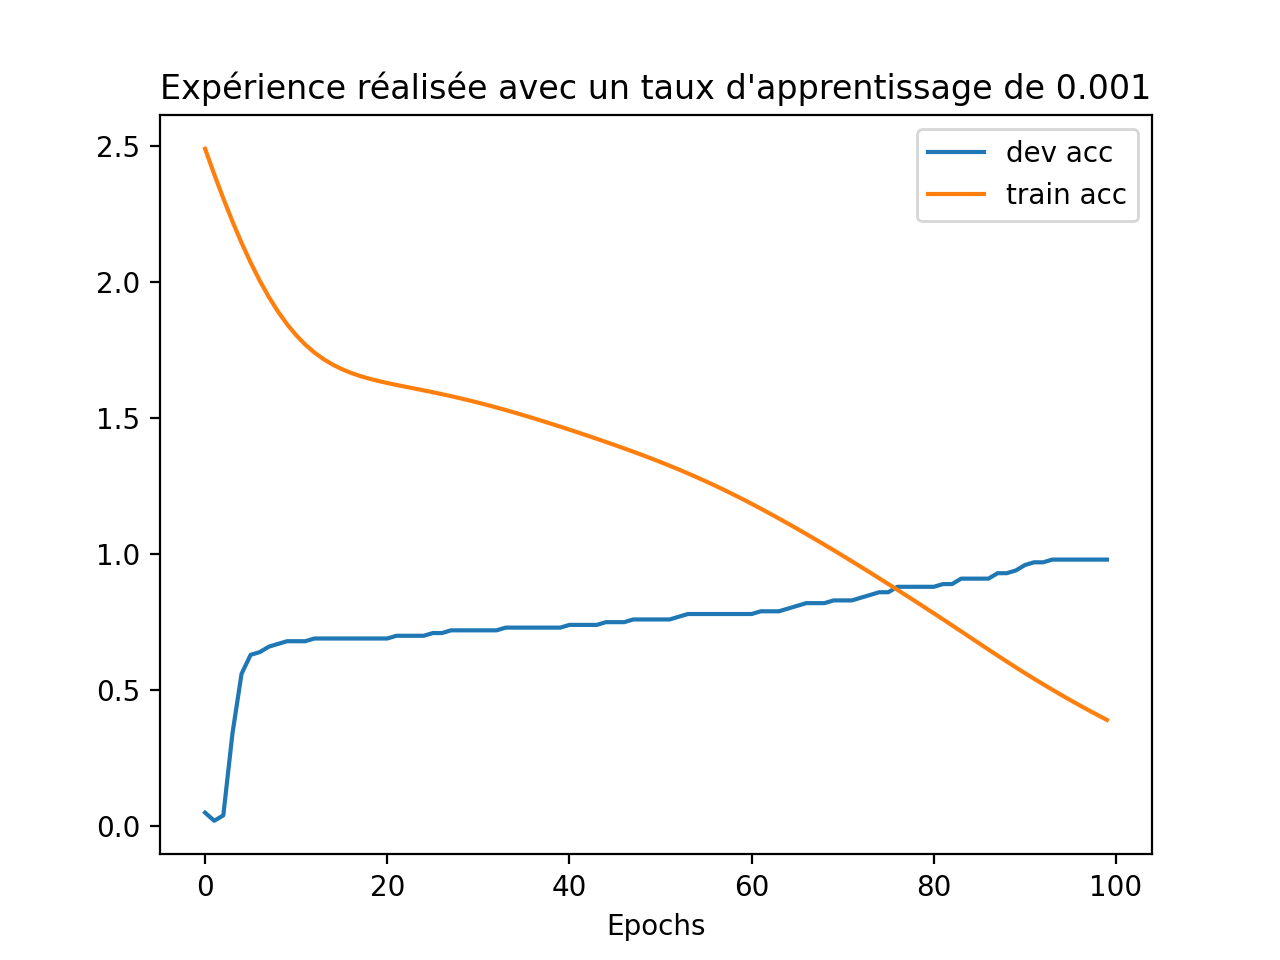
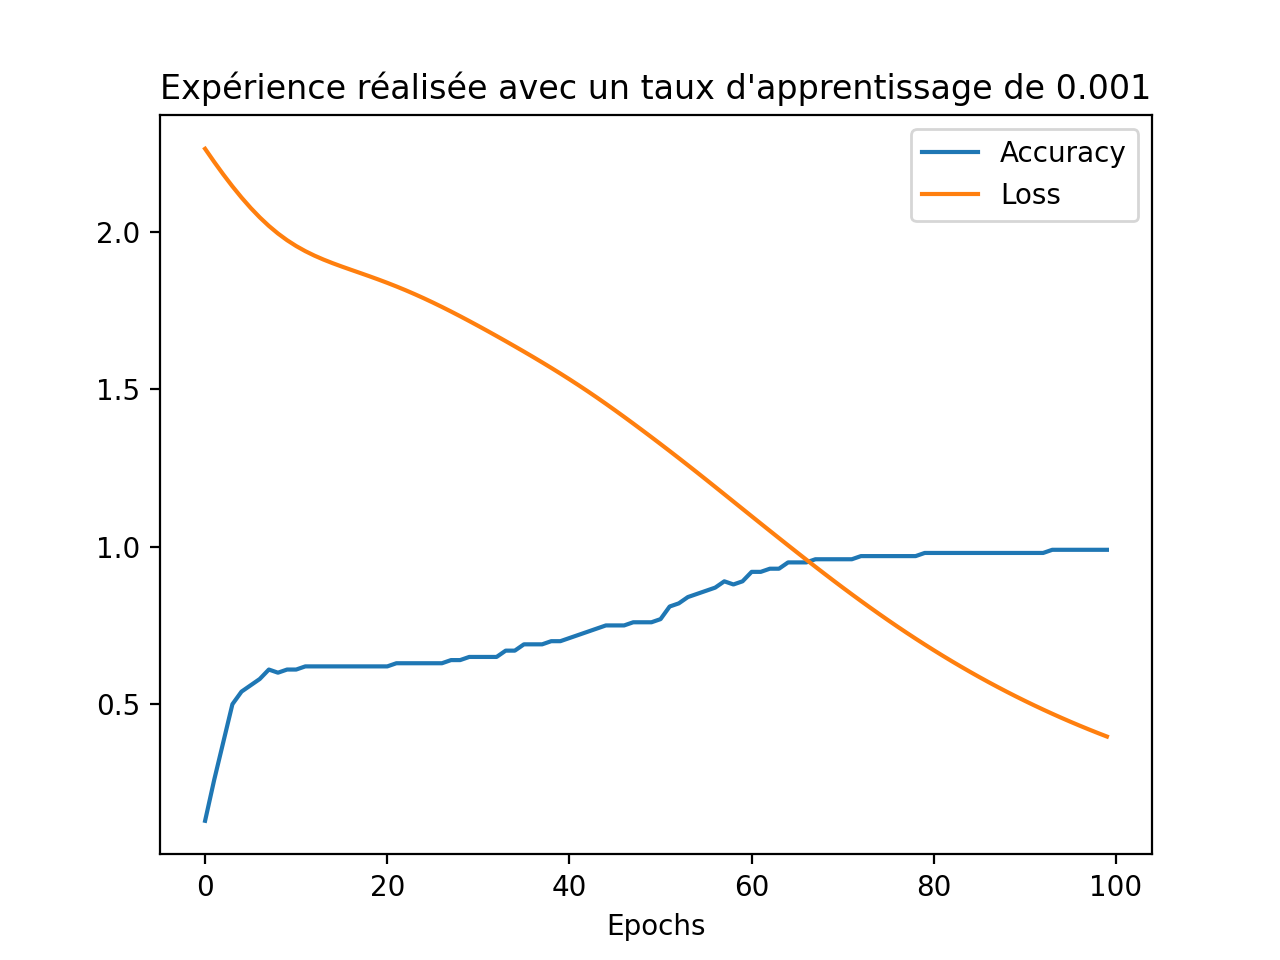
Changement de fonction par une plus simple + modification et ajout experiences

diff --git a/tp1.py b/tp1.py
@@ -52,8 +52,8 @@ def train(model, data, target, nEpoch, learningRate): #la training loop (iterate
         optim.step() #derniere etape modification des théta
         
     #traçage des graphes
-    plt.plot(epochVector, accVector, label="dev acc")
-    plt.plot(epochVector, lossVector, label="train acc")
+    plt.plot(epochVector, accVector, label="Accuracy")
+    plt.plot(epochVector, lossVector, label="Loss")
     plt.legend(loc="upper right")
     plt.xlabel('Epochs')
     plt.title("Expérience réalisée avec un taux d'apprentissage de "+str(learningRate))
@@ -64,7 +64,7 @@ def genData(n, nsamps):  #juste generation des données selon deux gaussiènes
     x =  np.random.uniform(size=(n,n))
     y= np.random.uniform(size=(n,1))
   
-    f = (x+y)**1/2 + np.log(x**2 + np.abs(y)) #definition de la fonction f
+    f = np.log(x+y) #definition de la fonction f
     y2 = np.ones((nsamps,),dtype='int64')
     y2[:n0] = 0 # optional
 
@@ -76,7 +76,7 @@ def toytest(): #expérience
     model = Net(100,10)
     x,y=genData(100, 500)
     nEpoch = 100
-    lr=0.001
+    lr=1.0
     print("Données pour l'expérience:\nx y")
     print(str(x)+" "+str(y))
 
